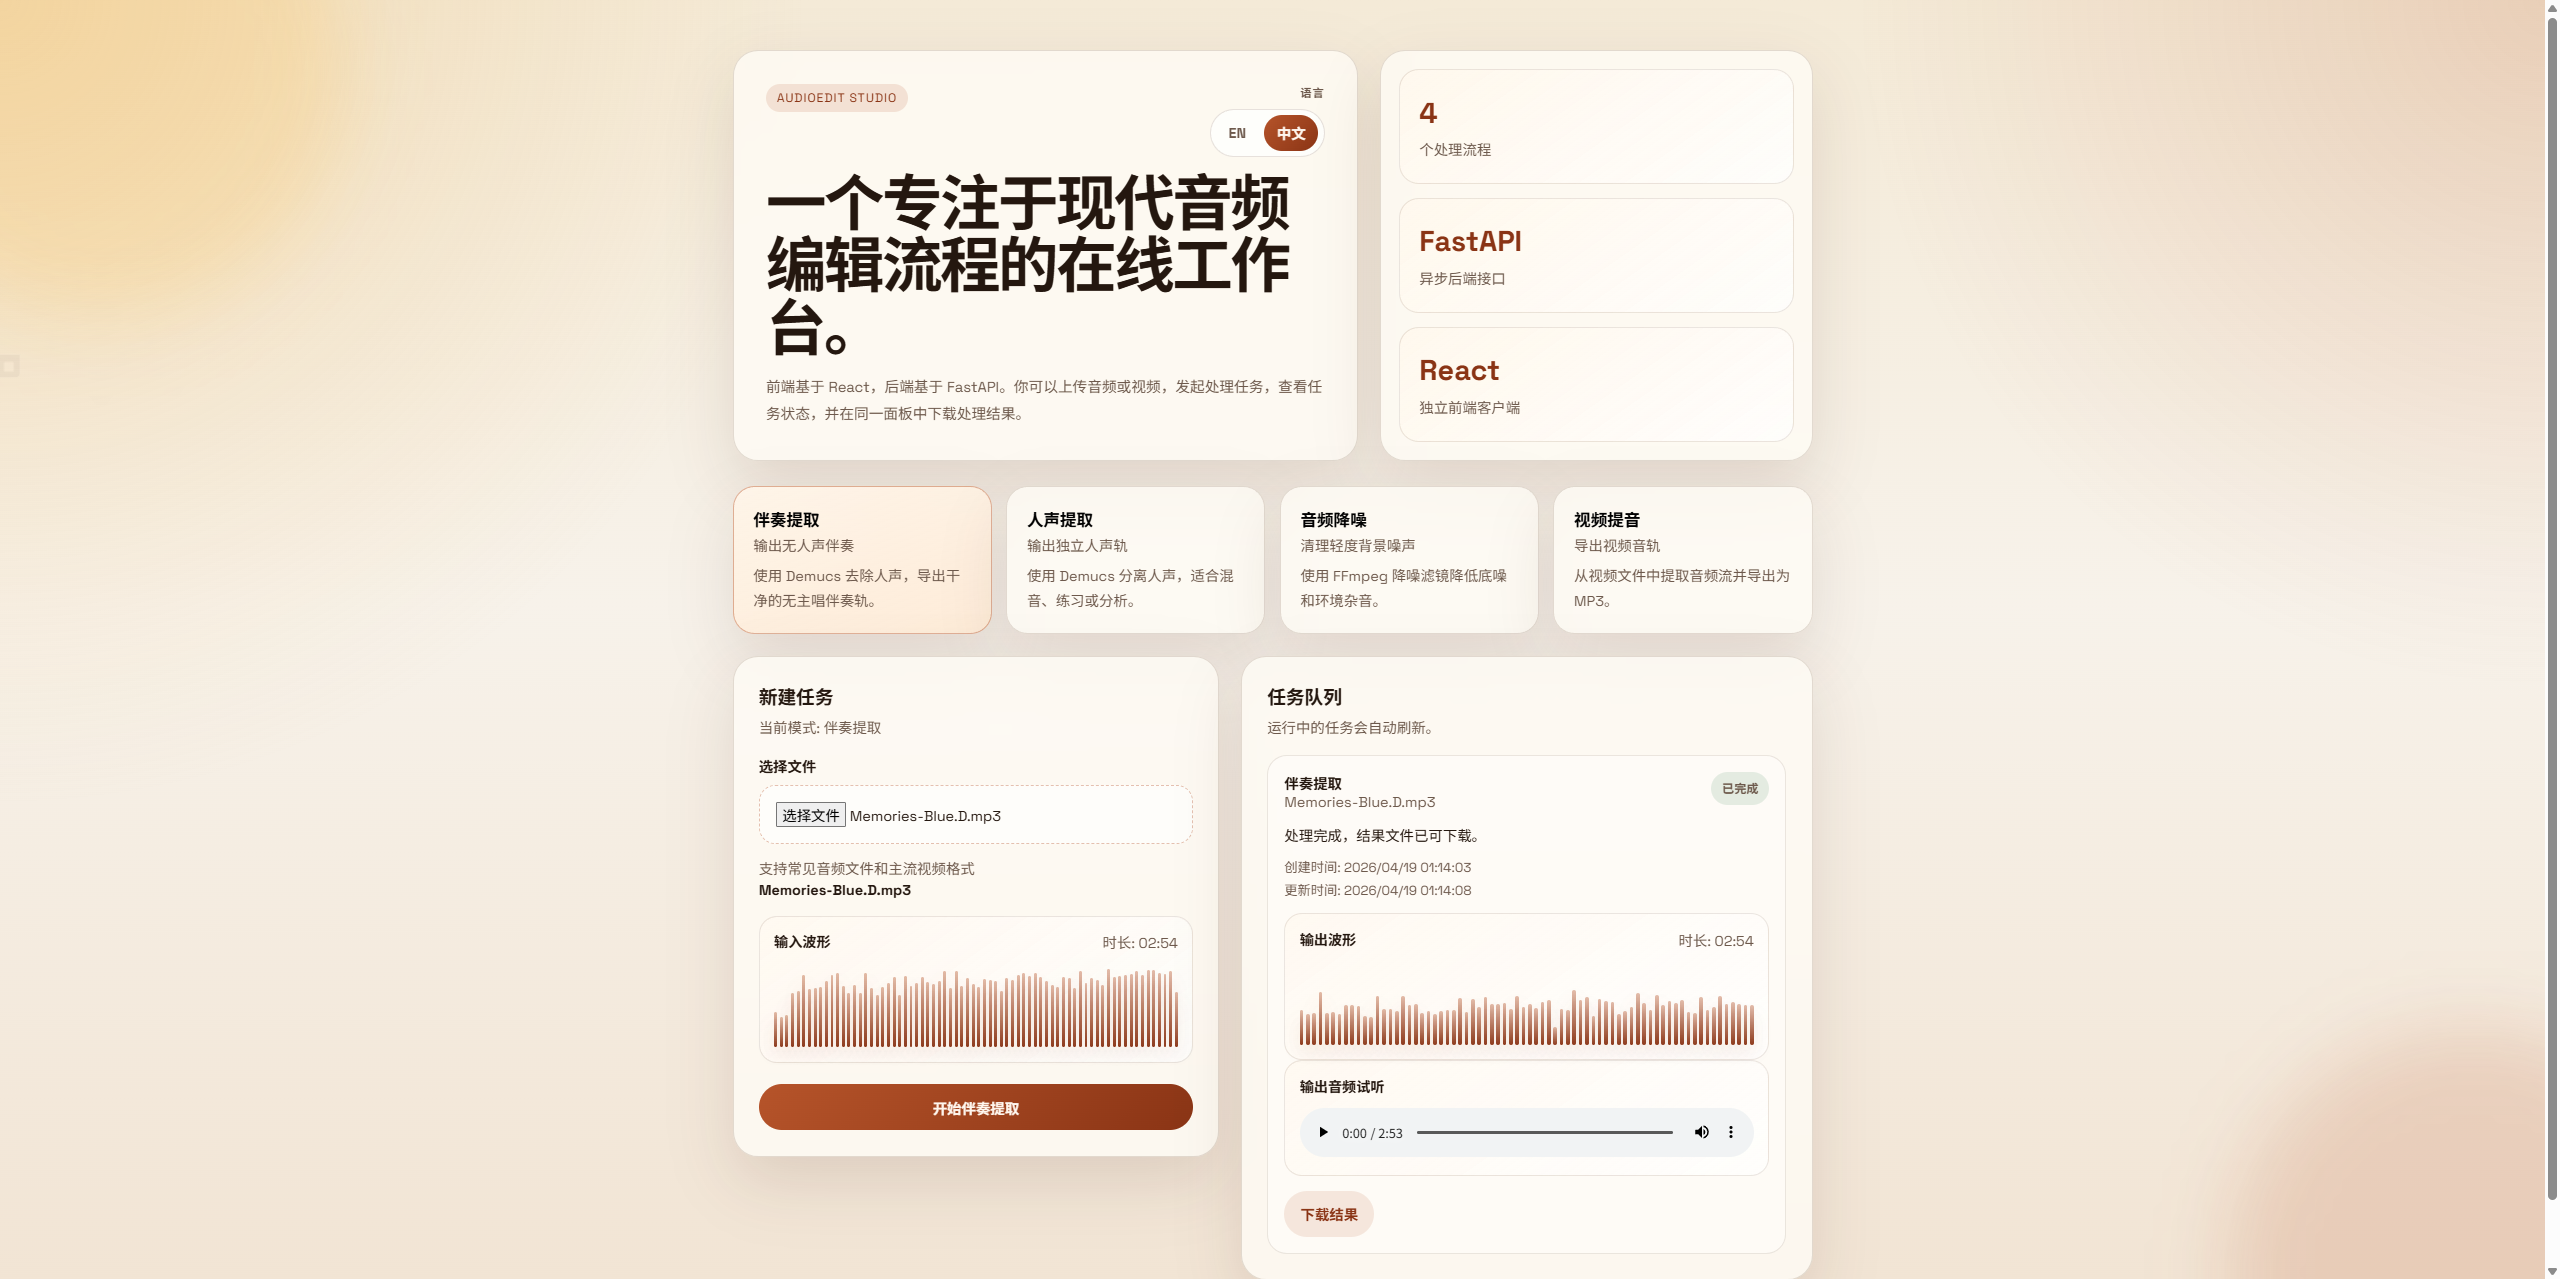
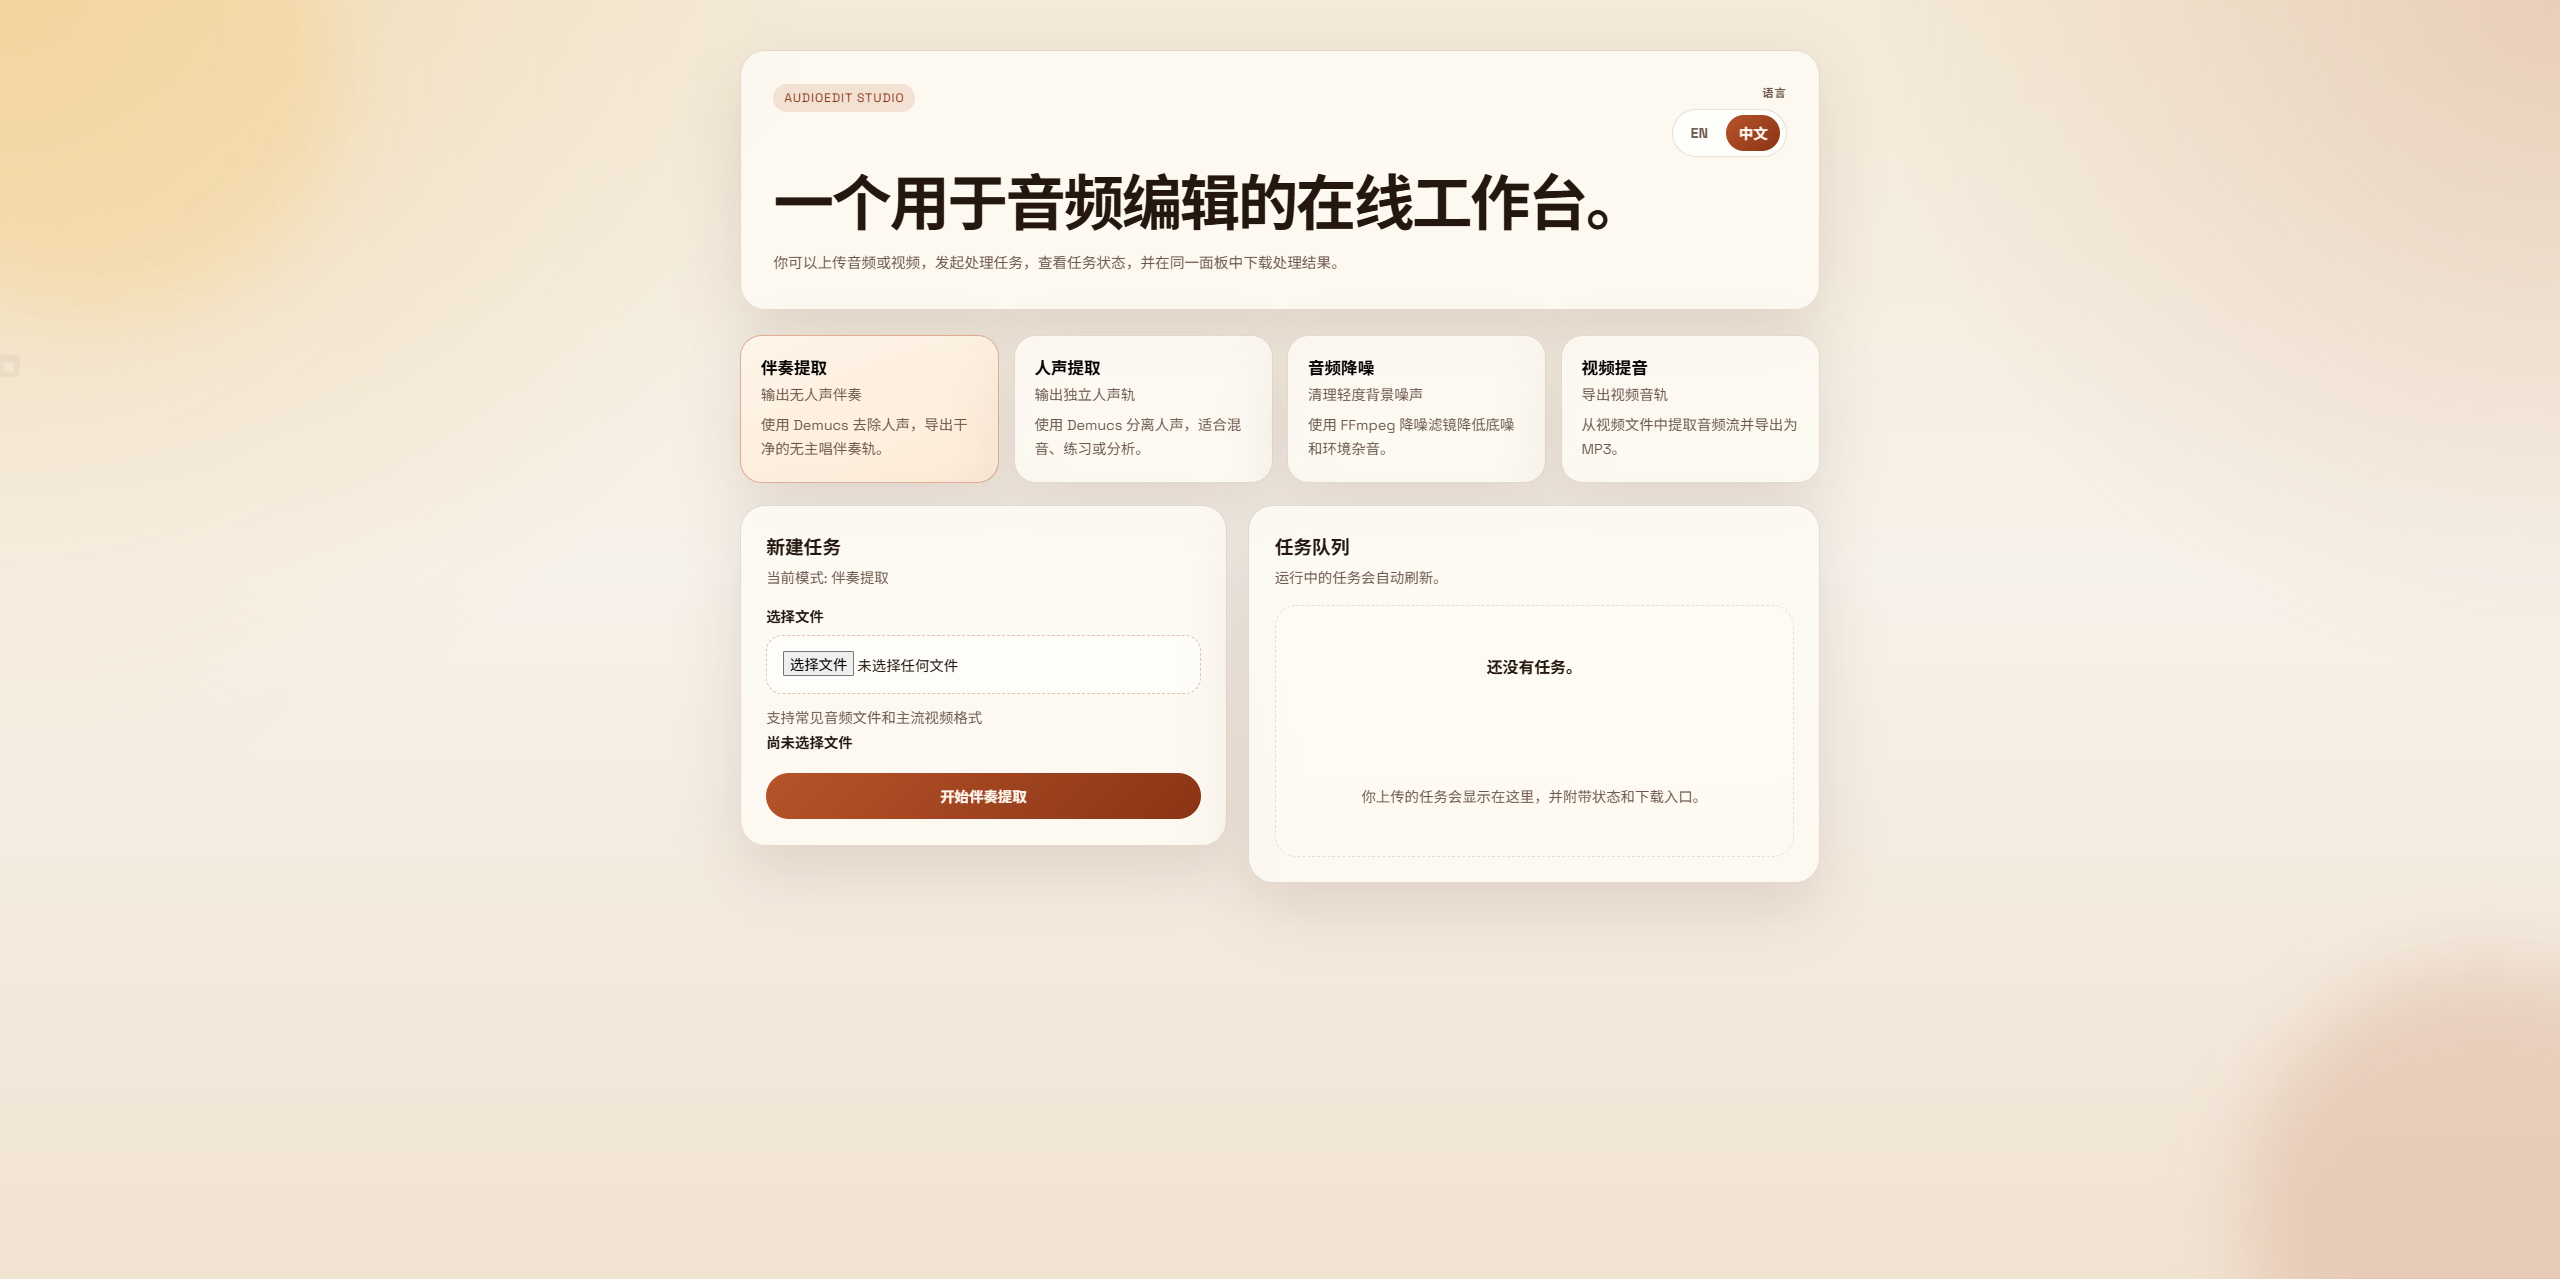
refactor: 修改了下前端样式

diff --git a/interface/src/App.tsx b/interface/src/App.tsx
@@ -157,9 +157,9 @@ const COPY_BY_LANGUAGE: Record<Language, Copy> = {
     pageTitle: "AudioEdit 音频编辑工作台",
     brand: "AudioEdit Studio",
     languageLabel: "语言",
-    heroTitle: "一个专注于现代音频编辑流程的在线工作台。",
+    heroTitle: "一个用于音频编辑的在线工作台。",
     heroDescription:
-      "前端基于 React，后端基于 FastAPI。你可以上传音频或视频，发起处理任务，查看任务状态，并在同一面板中下载处理结果。",
+      "你可以上传音频或视频，发起处理任务，查看任务状态，并在同一面板中下载处理结果。",
     metrics: {
       workflows: "个处理流程",
       backend: "异步后端接口",
@@ -472,21 +472,6 @@ export default function App() {
 
             <h1>{copy.heroTitle}</h1>
             <p>{copy.heroDescription}</p>
-          </div>
-
-          <div className="hero-metrics">
-            <div className="metric-card">
-              <strong>4</strong>
-              <span>{copy.metrics.workflows}</span>
-            </div>
-            <div className="metric-card">
-              <strong>FastAPI</strong>
-              <span>{copy.metrics.backend}</span>
-            </div>
-            <div className="metric-card">
-              <strong>React</strong>
-              <span>{copy.metrics.frontend}</span>
-            </div>
           </div>
         </section>
 

diff --git a/interface/src/styles.css b/interface/src/styles.css
@@ -83,10 +83,6 @@ input {
 }
 
 .hero {
-  display: grid;
-  grid-template-columns: 1.3fr 0.9fr;
-  gap: 24px;
-  align-items: stretch;
   margin-bottom: 28px;
 }
 
